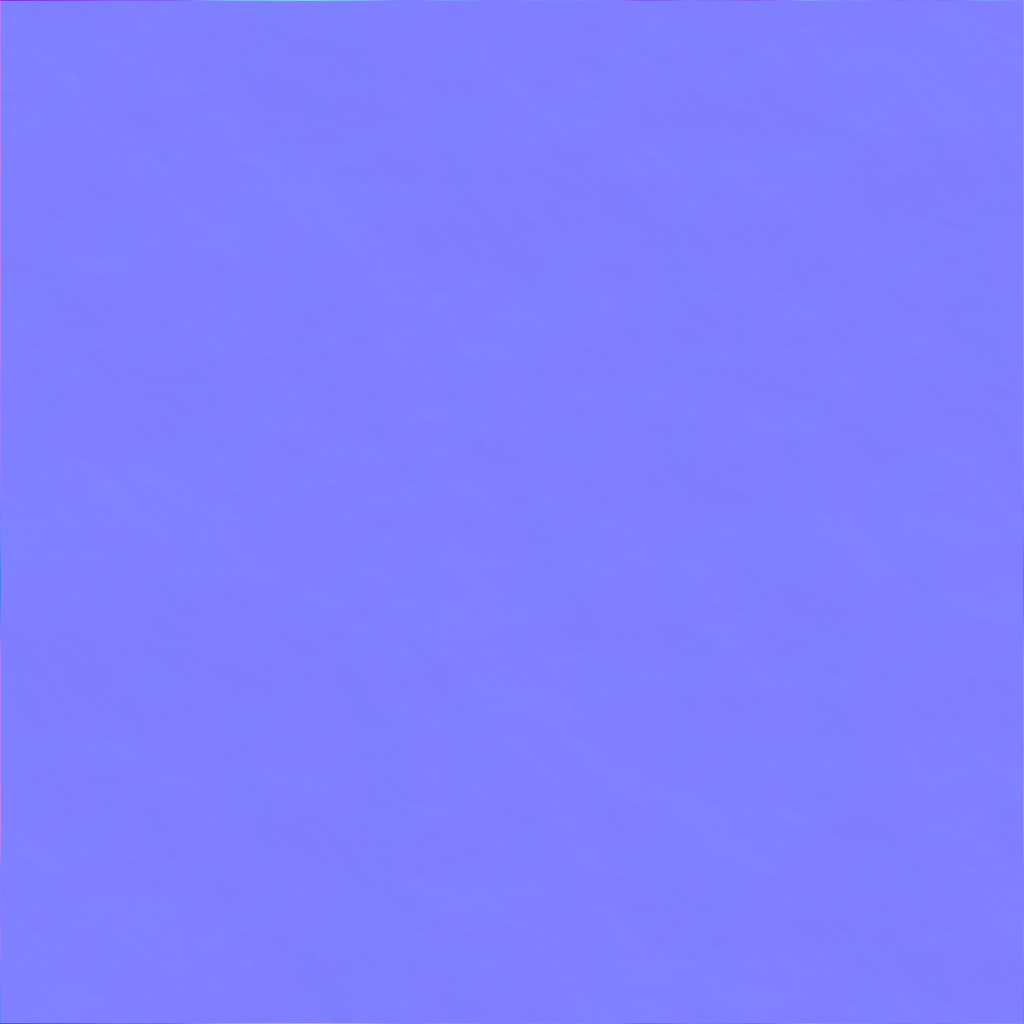
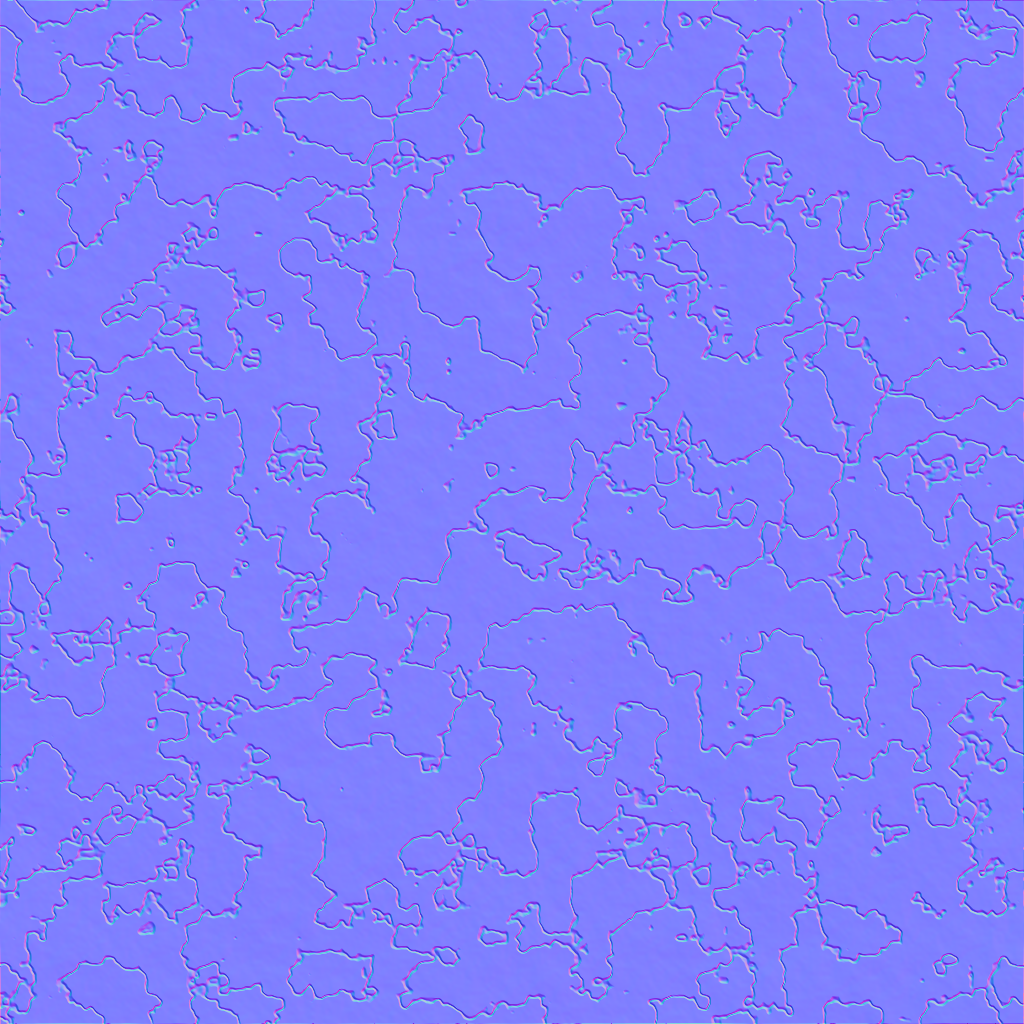
blender: skin and cloth relief that agrees with their colour
The skin's normal map was generic noise and the cloth's a weave at twenty
times the period the colour draws its threads: relief and colour disagreed
about where every vein and thread was, so the light raked marks the colour
did not show and missed the ones it did. The noise each surface is built
from now lives in one place (_skin_fields, _cloth_fields) that both the
colour and the relief draw on, so the vein that is darker is the vein that
is sunken, the bruise swells, the rot sinks, the pores pit, and the weave
stands proud thread by thread at the scale it is drawn, with the frays as
pits and the creases over the lot. The colour tiles regenerate
byte-identical (checked); only the normal maps changed. Verified up close:
fabric that catches the lamp as a weave, skin with tangible mottling.

diff --git a/tools/blender/zombie_street_textures.py b/tools/blender/zombie_street_textures.py
@@ -285,6 +285,25 @@ def paving(size=1024, seed=53):
     return _image("PavingSlab", size, _rgba(rgb))
 
 
+def _skin_fields(size, seed):
+    """The noise the skin is built from, shared by its colour and its relief
+    so the vein that is darker is also the vein that is sunken."""
+    rng = random.Random(seed)
+    blotch = _noise(rng, size, 4, 3)      # broad: bruising and rot
+    mottle = _noise(rng, size, 5, 12)     # mid: uneven patches
+    vein = _noise(rng, size, 4, 24)       # ridge source for the veins
+    pore = _noise(rng, size, 3, 64)       # fine grain
+    return blotch, mottle, vein, pore
+
+
+def _skin_marks(blotch, vein, pore):
+    """Bruise, rot, veins and pores as 0..1 fields, from the shared noise."""
+    bruise = numpy.clip((blotch - 0.54) * 3.2, 0.0, 1.0)
+    rot = numpy.clip((0.42 - blotch) * 3.2, 0.0, 1.0)
+    lines = numpy.clip(1.0 - numpy.abs(vein - 0.5) / 0.022, 0.0, 1.0)
+    return bruise, rot, lines, pore
+
+
 def skin(size=1024, seed=71):
     """Dead skin: pale and sickly, not green paint.
 
@@ -297,31 +316,45 @@ def skin(size=1024, seed=71):
     fine grain of pores over the lot. The pale base leaves the tint room to
     make one zombie greener, one greyer, one yellower.
     """
-    rng = random.Random(seed)
-    blotch = _noise(rng, size, 4, 3)      # broad: bruising and rot
-    mottle = _noise(rng, size, 5, 12)     # mid: uneven patches
-    vein = _noise(rng, size, 4, 24)       # ridge source for the veins
-    pore = _noise(rng, size, 3, 64)       # fine grain
+    blotch, mottle, vein, pore = _skin_fields(size, seed)
 
     base = numpy.array((0.46, 0.48, 0.39), dtype=numpy.float32)
     rgb = numpy.ones((size, size, 3), dtype=numpy.float32) * base[None, None, :]
     rgb *= (0.80 + mottle[:, :, None] * 0.40)
 
+    bruise, rot, lines, pore = _skin_marks(blotch, vein, pore)
     # Bruising: grey-purple where blood has settled.
-    bruise = numpy.clip((blotch - 0.54) * 3.2, 0.0, 1.0) * 0.55
-    rgb = rgb * (1.0 - bruise[:, :, None]) + \
-        numpy.array((0.34, 0.25, 0.34), dtype=numpy.float32)[None, None, :] * bruise[:, :, None]
+    b = bruise * 0.55
+    rgb = rgb * (1.0 - b[:, :, None]) + \
+        numpy.array((0.34, 0.25, 0.34), dtype=numpy.float32)[None, None, :] * b[:, :, None]
     # Rot: gone dark and greenish where the tissue has broken down.
-    rot = numpy.clip((0.42 - blotch) * 3.2, 0.0, 1.0) * 0.6
-    rgb = rgb * (1.0 - rot[:, :, None]) + \
-        numpy.array((0.15, 0.18, 0.11), dtype=numpy.float32)[None, None, :] * rot[:, :, None]
+    r = rot * 0.6
+    rgb = rgb * (1.0 - r[:, :, None]) + \
+        numpy.array((0.15, 0.18, 0.11), dtype=numpy.float32)[None, None, :] * r[:, :, None]
     # Veins: the contour lines of a noise field are thin, branching and
     # closed -- the shape veins have.
-    lines = numpy.clip(1.0 - numpy.abs(vein - 0.5) / 0.022, 0.0, 1.0) * 0.42
-    rgb *= (1.0 - lines[:, :, None])
+    rgb *= (1.0 - (lines * 0.42)[:, :, None])
     # Pores.
     rgb *= (0.90 + pore[:, :, None] * 0.20)
     return _image("ZombieSkin", size, _rgba(rgb))
+
+
+def _cloth_fields(size, seed):
+    """The noise and the weave the cloth is built from, shared by its colour
+    and its relief so the thread that catches the light is the one drawn."""
+    rng = random.Random(seed)
+    grime = _noise(rng, size, 4, 3)       # broad dirt
+    dust = _noise(rng, size, 3, 2)        # broad settled dust
+    wear = _noise(rng, size, 5, 10)       # worn and faded patches
+    blood = _noise(rng, size, 4, 5)       # a few stains
+    fray = _noise(rng, size, 6, 40)       # threads and frays
+    # A fine cross-hatch at eight texels, which on the figure is a thread
+    # every couple of millimetres: fabric, not paint.
+    yy, xx = numpy.mgrid[0:size, 0:size].astype(numpy.float32)
+    period = size / 128.0
+    weave = 0.5 + 0.25 * numpy.sin(xx * 2.0 * math.pi / period) + \
+        0.25 * numpy.sin(yy * 2.0 * math.pi / period)
+    return grime, dust, wear, blood, fray, weave
 
 
 def cloth(size=1024, seed=89):
@@ -336,19 +369,7 @@ def cloth(size=1024, seed=89):
     threads and frays. A base that is dark but not black leaves the folds
     something to shade.
     """
-    rng = random.Random(seed)
-    grime = _noise(rng, size, 4, 3)       # broad dirt
-    dust = _noise(rng, size, 3, 2)        # broad settled dust
-    wear = _noise(rng, size, 5, 10)       # worn and faded patches
-    blood = _noise(rng, size, 4, 5)       # a few stains
-    fray = _noise(rng, size, 6, 40)       # threads and frays
-
-    # A fine cross-hatch at eight texels, which on the figure is a thread
-    # every couple of millimetres: fabric, not paint.
-    yy, xx = numpy.mgrid[0:size, 0:size].astype(numpy.float32)
-    period = size / 128.0
-    weave = 0.5 + 0.25 * numpy.sin(xx * 2.0 * math.pi / period) + \
-        0.25 * numpy.sin(yy * 2.0 * math.pi / period)
+    grime, dust, wear, blood, fray, weave = _cloth_fields(size, seed)
 
     base = numpy.array((0.30, 0.27, 0.31), dtype=numpy.float32)
     rgb = numpy.ones((size, size, 3), dtype=numpy.float32) * base[None, None, :]
@@ -583,19 +604,25 @@ def stone_normal(size=512, seed=113):
 
 
 def skin_normal(size=1024, seed=71):
-    """What is left of a face, in relief."""
-    rng = random.Random(seed)
-    height = _noise(rng, size, 6, 7) * 0.65 + _noise(rng, size, 4, 4) * 0.35
-    return _normal_from_height(height, 2.1, "ZombieSkinNormal")
+    """The skin's relief, from the same fields as its colour: the bruises
+    swell a little, the rot sinks, the veins are grooves, and the pores pit
+    the surface -- so a lamp rakes the same marks the colour shows."""
+    blotch, mottle, vein, pore = _skin_fields(size, seed)
+    bruise, rot, lines, pore = _skin_marks(blotch, vein, pore)
+    height = mottle * 0.30 + bruise * 0.20 - rot * 0.25 - lines * 0.45 - pore * 0.12
+    return _normal_from_height(height, 2.4, "ZombieSkinNormal")
 
 
 def cloth_normal(size=1024, seed=89):
-    """A weave, and the creases in it."""
-    rng = random.Random(seed)
-    weave = numpy.linspace(0.0, size / 6.0 * math.tau, size, dtype=numpy.float32)
-    height = (numpy.sin(weave)[None, :] + numpy.sin(weave)[:, None]) * 0.12
-    height += _noise(rng, size, 5, 5) * 0.7
-    return _normal_from_height(height, 1.6, "ZombieClothNormal")
+    """The cloth's relief, from the same fields as its colour: the weave
+    stands proud thread by thread at the scale the colour draws it, the worn
+    patches lie flatter, and the frays are pits; broad creases over the lot.
+    The old map wove at a period twenty times the colour's -- relief and
+    colour disagreed about where the threads were."""
+    grime, dust, wear, blood, fray, weave = _cloth_fields(size, seed)
+    threads = numpy.clip((fray - 0.75) * 8.0, 0.0, 1.0)
+    height = weave * 0.35 + wear * 0.18 + grime * 0.30 - threads * 0.40
+    return _normal_from_height(height, 1.8, "ZombieClothNormal")
 
 
 def _planks(size, rng, boards, gap):
